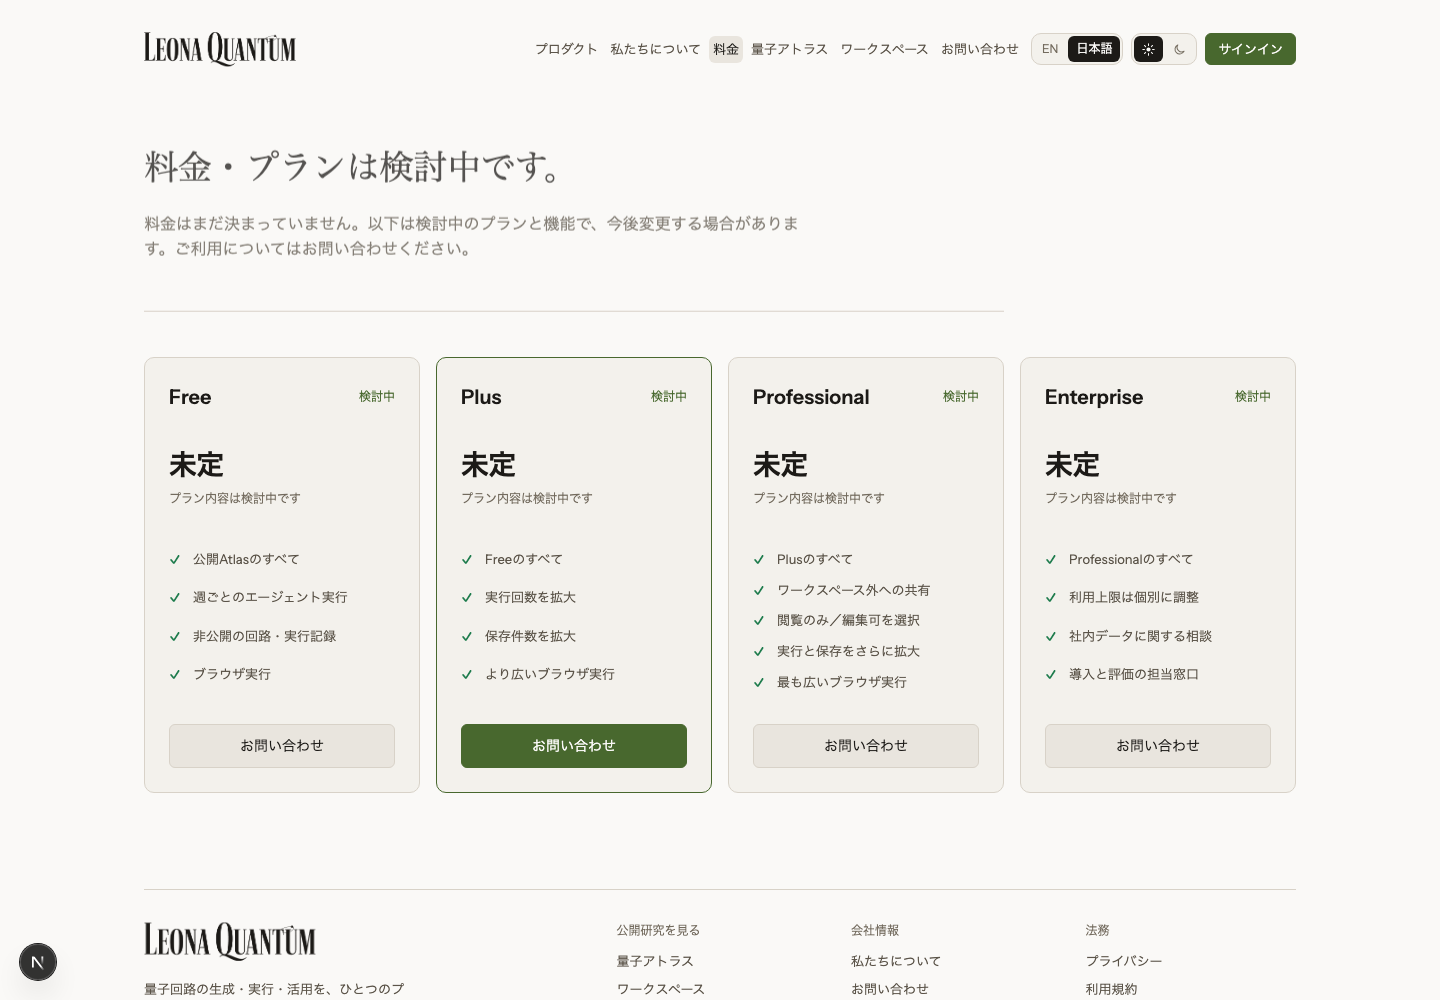
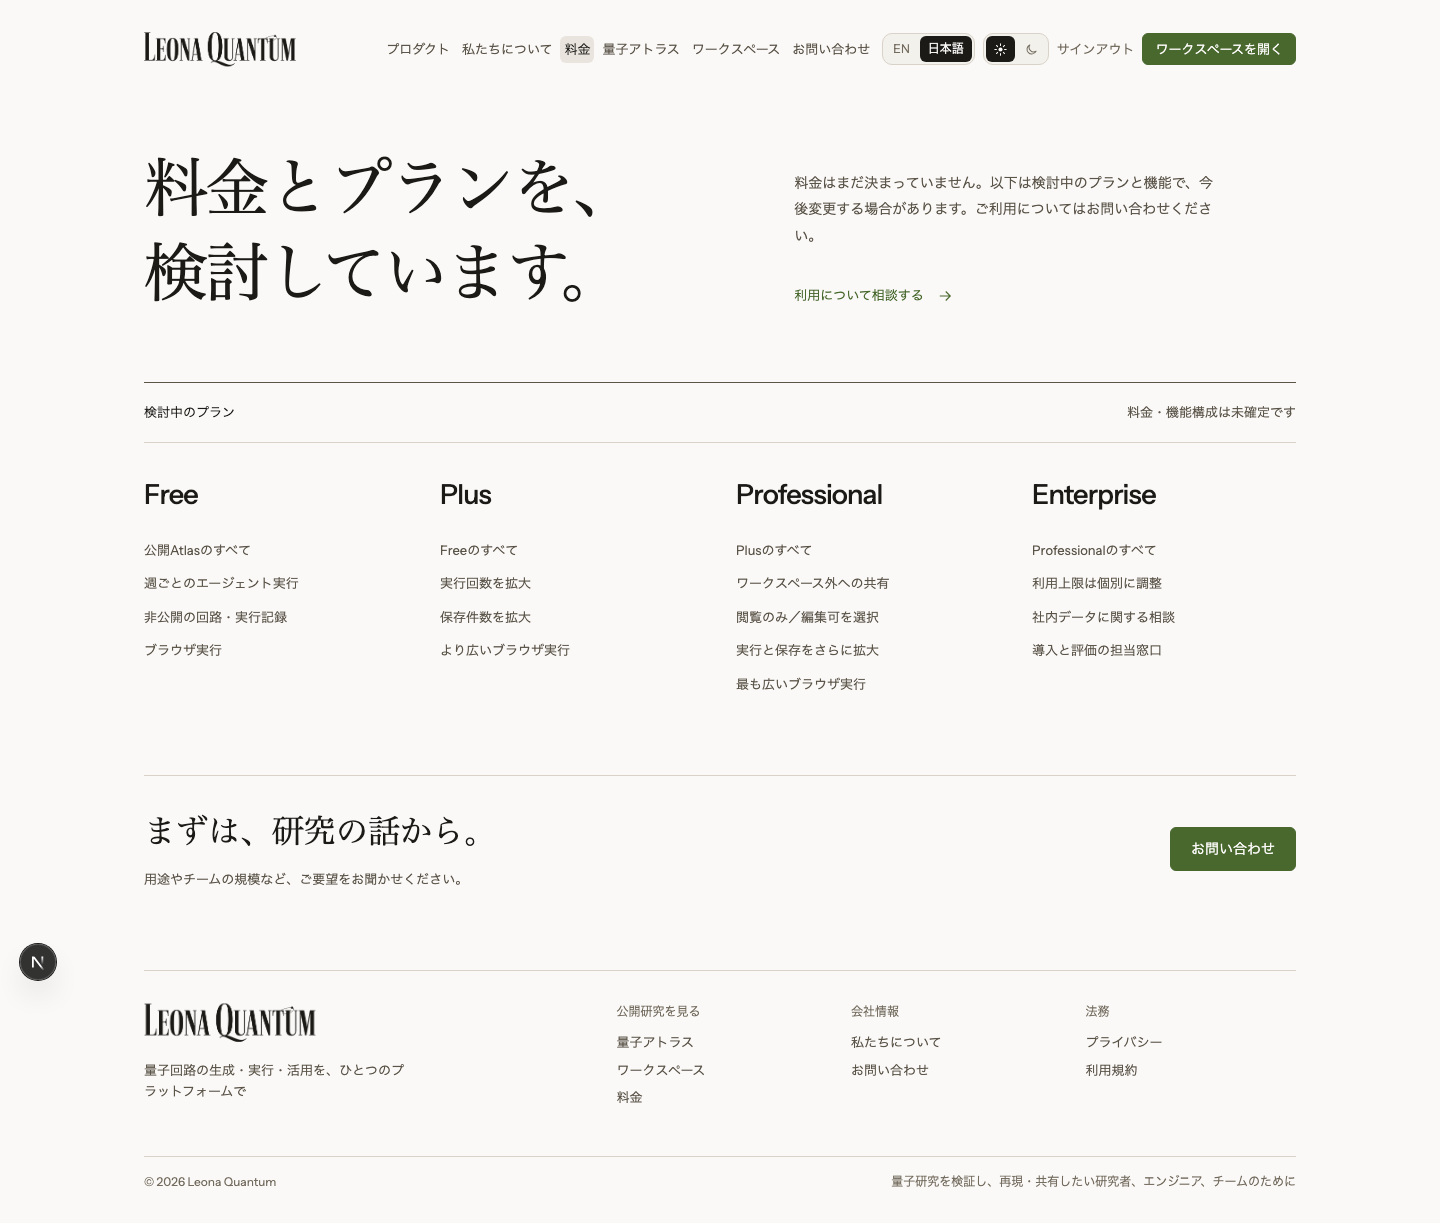
refactor: refine the proposed pricing presentation

diff --git a/apps/web/app/[locale]/pricing/page.tsx b/apps/web/app/[locale]/pricing/page.tsx
@@ -35,47 +35,49 @@ export default async function PricingPage({ params }: { params: Promise<{ locale
   return (
     <PublicSite activePath="/pricing" className="mj-pricing-site" locale={locale} chrome="static">
       <Reveal>
-        <section className="mj-public-page-hero">
-          <h1>{copy.hero.title}</h1>
-          <p>{copy.hero.body}</p>
+        <section className="lq-pricing-intro">
+          <h1>{locale === "ja" ? <>料金とプランを、<br />検討しています。</> : <>Pricing, still<br />in the making.</>}</h1>
+          <div className="lq-pricing-intro-copy">
+            <p>{copy.hero.body}</p>
+            <a className="lq-pricing-text-link" href="/contact">
+              {locale === "ja" ? "利用について相談する" : "Discuss your needs"}
+              <svg width="18" height="18" viewBox="0 0 24 24" fill="none" stroke="currentColor" strokeWidth="1.5" aria-hidden="true"><path d="M5 12h14m-6-6 6 6-6 6" /></svg>
+            </a>
+          </div>
         </section>
       </Reveal>
 
-      <section className="mj-pricing-grid" aria-label={locale === "ja" ? "Leona Quantumのプラン" : "Leona Quantum plans"}>
-        {copy.plans.map((plan, index) => {
-          // With the demo off the Free plan's button goes to /contact, so its
-          // copy label ("Try the preview") is stale — computed once here and
-          // used for BOTH the visible text and the tooltip. They used to be
-          // computed separately, which shipped a button reading "Talk to us"
-          // whose hover tooltip still said "Try the preview".
-          const toDemo = plan.name === "Free" && demoEnabled;
-          const actionLabel = plan.name === "Free" && !demoEnabled
-            ? (locale === "ja" ? "お問い合わせ" : "Talk to us")
-            : plan.action;
-          return (
-          <Reveal delay={index * 90} key={plan.name}>
-            <article className={`mj-pricing-card mj-pricing-card--${plan.tone}`}>
-            <div className="mj-pricing-card-head">
-              <h2>{plan.name}</h2>
-              <span className="mj-pricing-mark">{locale === "ja" ? "検討中" : "Proposed"}</span>
-            </div>
-            <p className="mj-pricing-price">{plan.price}</p>
-            <p className="mj-pricing-cadence">{plan.cadence}</p>
-            <ul>
-              {plan.features.map((feature) => <li key={feature}>{feature}</li>)}
-            </ul>
-            <a
-              className={plan.tone === "featured" ? "mj-primary-button" : "mj-secondary-button"}
-              href={toDemo ? "/demo" : "/contact"}
-              title={actionLabel}
-            >
-              {actionLabel}
-            </a>
-            </article>
-          </Reveal>
-          );
-        })}
-      </section>
+      <Reveal>
+        <section className="lq-pricing-proposals" aria-labelledby="pricing-proposals-title">
+          <div className="lq-pricing-section-heading">
+            <h2 id="pricing-proposals-title">{locale === "ja" ? "検討中のプラン" : "Plans under consideration"}</h2>
+            <p>{locale === "ja" ? "料金・機能構成は未確定です" : "Pricing and features are not final"}</p>
+          </div>
+          <div className="lq-pricing-columns">
+            {copy.plans.map((plan) => (
+              <article className="lq-pricing-plan" key={plan.name}>
+                <h3>{plan.name}</h3>
+                <ul>
+                  {plan.features.map((feature) => <li key={feature}>{feature}</li>)}
+                </ul>
+              </article>
+            ))}
+          </div>
+        </section>
+      </Reveal>
+
+      <Reveal>
+        <section className="lq-pricing-contact">
+          <div>
+            <h2>{locale === "ja" ? "まずは、研究の話から。" : "Start with your research."}</h2>
+            <p>{locale === "ja" ? "用途やチームの規模など、ご要望をお聞かせください。" : "Tell us about your use case, your team, and what you need."}</p>
+          </div>
+          <div className="lq-pricing-contact-actions">
+            <a className="mj-primary-button" href="/contact">{locale === "ja" ? "お問い合わせ" : "Get in touch"}</a>
+            {demoEnabled ? <a className="lq-pricing-text-link" href="/demo">{locale === "ja" ? "プレビューを試す" : "Try the preview"}</a> : null}
+          </div>
+        </section>
+      </Reveal>
     </PublicSite>
   );
 }

diff --git a/apps/web/app/globals.css b/apps/web/app/globals.css
@@ -3557,6 +3557,7 @@ html[lang="ja"] .mj-company-hero-title-line {
 
 /* Keep the original public controls in one row; small screens can scroll it. */
 .mj-public-header.lq-public-header {
+  position: relative;
   flex-wrap: nowrap;
   gap: var(--sp-2);
   overflow-x: auto;
@@ -3589,4 +3590,117 @@ html[lang="ja"] .mj-company-hero-title-line {
 @media (max-width: 1100px) {
   .lq-public-header .lq-wordmark--public-header { width: 128px; }
   .lq-public-header > .mj-public-nav { gap: 0; }
+}
+
+/* Pricing is a proposal, not a checkout: shared context above an open comparison. */
+.lq-pricing-intro {
+  display: grid;
+  grid-template-columns: 1.2fr 1fr;
+  align-items: end;
+  gap: var(--sp-12);
+  padding: var(--sp-12) 0 var(--sp-16);
+}
+.lq-pricing-intro h1 {
+  margin: 0;
+  font-family: var(--font-display);
+  font-size: clamp(2.5rem, 4.4vw, 4rem);
+  font-weight: 400;
+  line-height: 1.35;
+  letter-spacing: -0.03em;
+}
+.lq-pricing-intro-copy { max-width: 420px; }
+.lq-pricing-intro-copy p {
+  margin: 0 0 var(--sp-6);
+  color: var(--text-1);
+  font-size: var(--fs-14);
+  line-height: 1.9;
+}
+.lq-pricing-text-link {
+  display: inline-flex;
+  align-items: center;
+  gap: var(--sp-3);
+  min-height: 44px;
+  color: var(--accent);
+  font-size: var(--fs-13);
+  text-decoration: underline;
+  text-decoration-color: transparent;
+  text-underline-offset: 5px;
+}
+.lq-pricing-text-link:hover { text-decoration-color: currentColor; }
+.lq-pricing-text-link:focus-visible {
+  outline: 2px solid var(--accent);
+  outline-offset: 4px;
+}
+.lq-pricing-section-heading {
+  display: flex;
+  flex-wrap: wrap;
+  align-items: baseline;
+  justify-content: space-between;
+  gap: var(--sp-3);
+  padding-block: var(--sp-5);
+  border-top: 1px solid var(--text-1);
+  border-bottom: 1px solid var(--border-0);
+}
+.lq-pricing-section-heading h2,
+.lq-pricing-section-heading p { margin: 0; font-size: var(--fs-13); }
+.lq-pricing-section-heading h2 { font-weight: 500; }
+.lq-pricing-section-heading p { color: var(--text-1); }
+.lq-pricing-columns {
+  display: grid;
+  grid-template-columns: repeat(4, minmax(0, 1fr));
+  gap: var(--sp-8);
+  padding-block: var(--sp-8) var(--sp-12);
+}
+.lq-pricing-plan { min-width: 0; }
+.lq-pricing-plan h3 {
+  margin: 0 0 var(--sp-6);
+  font-size: clamp(1.3rem, 2vw, 1.7rem);
+  font-weight: 500;
+  letter-spacing: -0.03em;
+}
+.lq-pricing-plan ul {
+  display: grid;
+  gap: var(--sp-3);
+  margin: 0;
+  padding: 0;
+  list-style: none;
+  color: var(--text-1);
+  font-size: var(--fs-13);
+  line-height: 1.65;
+}
+.lq-pricing-contact {
+  display: flex;
+  align-items: center;
+  justify-content: space-between;
+  gap: var(--sp-8);
+  margin-top: var(--sp-8);
+  padding-block: var(--sp-8);
+  border-top: 1px solid var(--border-0);
+}
+.lq-pricing-contact h2 {
+  margin: 0 0 var(--sp-3);
+  font-family: var(--font-display);
+  font-size: clamp(1.6rem, 2.5vw, 2rem);
+  font-weight: 400;
+}
+.lq-pricing-contact p {
+  margin: 0;
+  color: var(--text-1);
+  font-size: var(--fs-13);
+  line-height: 1.7;
+}
+.lq-pricing-contact-actions { display: flex; align-items: center; gap: var(--sp-5); flex-shrink: 0; }
+.lq-pricing-contact-actions .mj-primary-button { min-height: 44px; }
+@media (max-width: 900px) {
+  .lq-pricing-intro { grid-template-columns: 1fr; gap: var(--sp-6); padding-block: var(--sp-8); }
+  .lq-pricing-intro-copy { max-width: 560px; }
+  .lq-pricing-columns { grid-template-columns: repeat(2, minmax(0, 1fr)); }
+}
+@media (max-width: 540px) {
+  .lq-pricing-intro h1 { font-size: clamp(1.9rem, 8vw, 2.5rem); }
+  .lq-pricing-columns { grid-template-columns: 1fr; gap: 0; padding-block: 0; }
+  .lq-pricing-plan { padding-block: var(--sp-6); border-bottom: 1px solid var(--border-0); }
+  .lq-pricing-plan h3 { margin-bottom: var(--sp-4); }
+  .lq-pricing-contact { flex-direction: column; align-items: flex-start; margin-top: var(--sp-4); }
+  .lq-pricing-contact-actions { flex-wrap: wrap; }
 }

diff --git a/docs/ui/screens.md b/docs/ui/screens.md
@@ -126,3 +126,10 @@ The public header retains all six navigation links, language/theme controls and
 existing authentication actions. Compact gaps and icon-only theme buttons keep
 it on one row. On narrow screens the header scrolls horizontally so every action
 remains reachable without wrapping or shrinking text to an unreadable size.
+
+### Pricing proposal presentation — 2026-09-08
+
+The undecided-pricing notice leads a split introductory section. Proposed plans
+use an open four-column comparison (two columns on tablets, one on phones),
+with one shared inquiry section instead of repeated TBD prices and card buttons.
+No plan is recommended or presented as a finalized offer.
